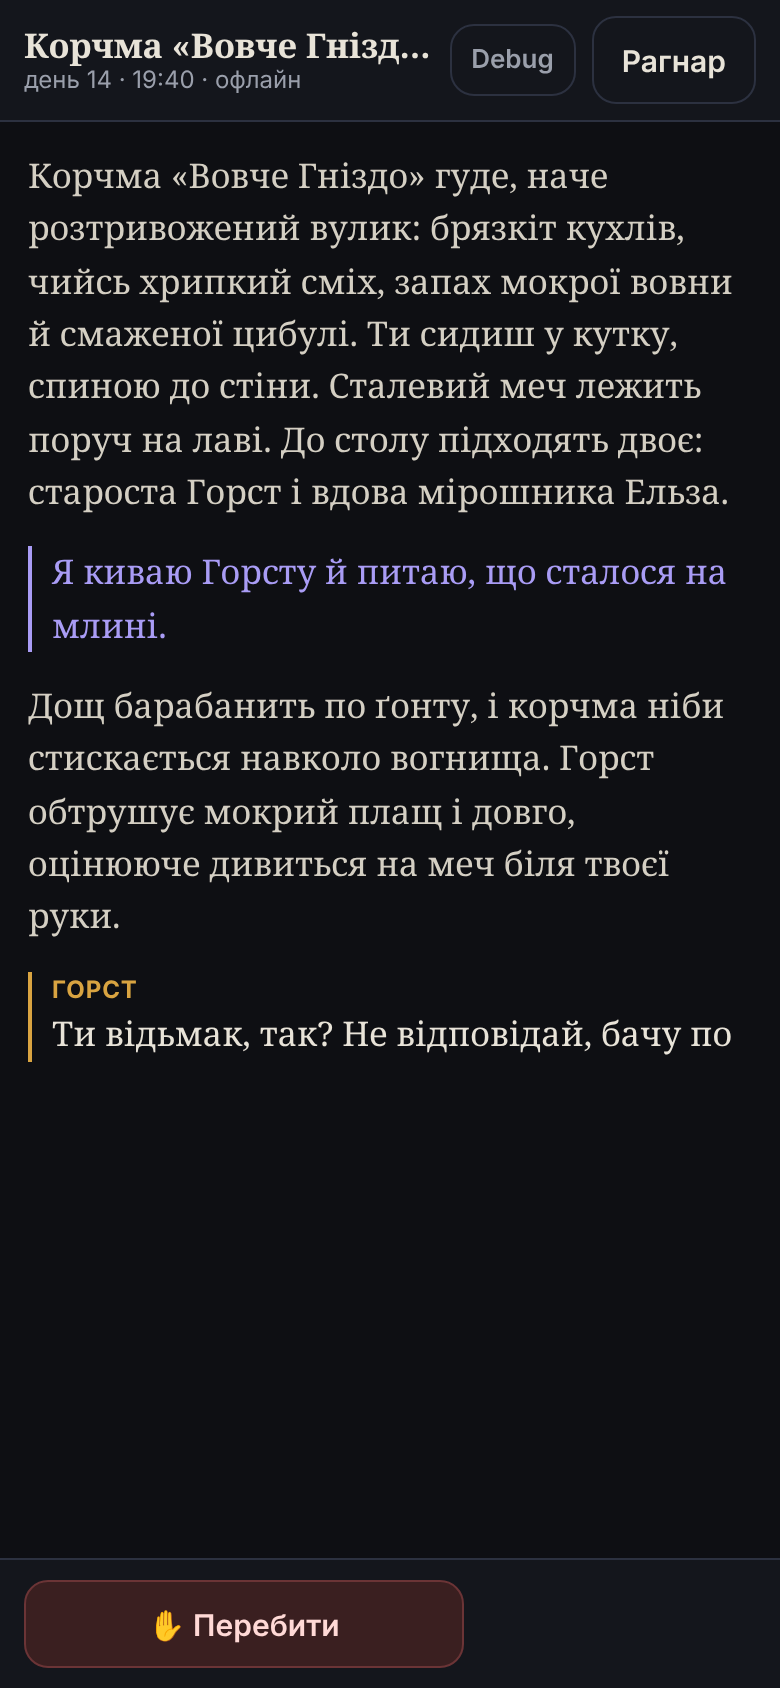
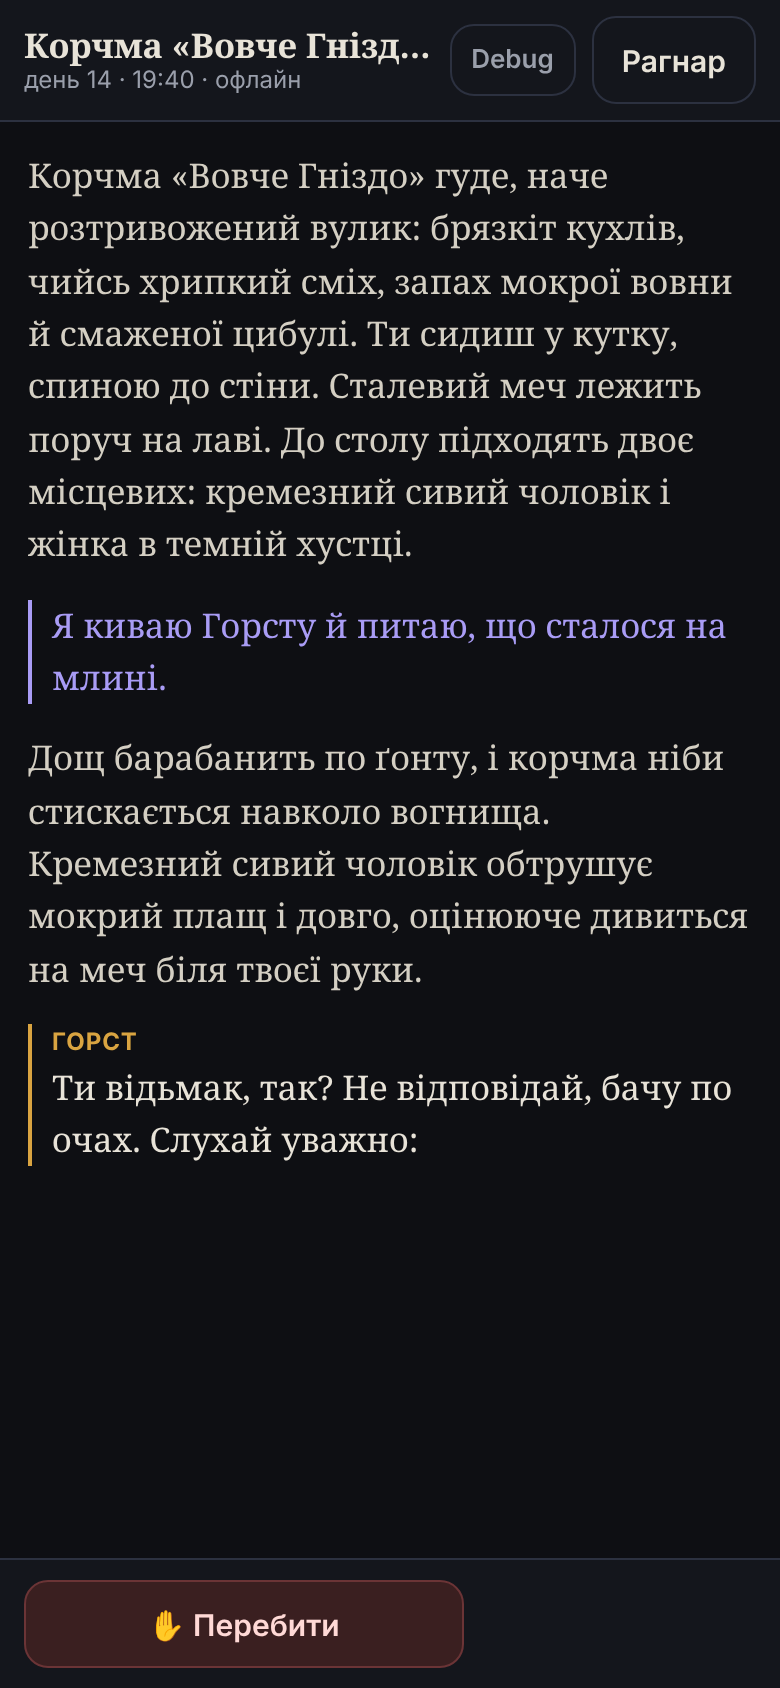
UI: how does he know that (tap, spoiler), who-knows-what debug section; phone check updated

Changed region(s): [[0.0308, 0.2773, 0.9538, 0.6777], [0.8923, 0.5853, 0.9231, 0.6469]]

diff --git a/app/static/app.js b/app/static/app.js
@@ -1,7 +1,7 @@
 "use strict";
 const $ = (id) => document.getElementById(id);
 const feed = $("feed");
-let tag = "", lastSeq = 0, es = null, turnEls = [], cur = null, busy = false;
+let tag = "", lastSeq = 0, es = null, turnEls = [], cur = null, busy = false, turnNpc = [];
 
 function el(tag, cls, text) {
   const e = document.createElement(tag);
@@ -22,12 +22,64 @@ function addWord(block, w) {
   block.appendChild(s);
   if (atBottom) feed.scrollTop = feed.scrollHeight;
 }
-function npcBlock(who, name, text, cut) {
+function npcBlock(who, name, text, cut, event) {
   const b = el("p", "npc"); b.dataset.who = who;
   b.appendChild(el("span", "who", name));
   if (text) b.appendChild(el("span", "w", text));
   if (cut) b.classList.add("cut");
+  if (event != null) addAsk(b, event);
   return b;
+}
+
+// "Звідки він це знає?": the player marks a line as impossible; the engine checks the channels
+function addAsk(block, event) {
+  block.dataset.event = event;
+  const old = block.querySelector(".ask"); if (old) old.remove();
+  const btn = el("button", "ask", "звідки він це знає?");
+  btn.type = "button";
+  btn.addEventListener("click", () => openAsk(block));
+  block.appendChild(btn);
+}
+function openAsk(block) {
+  if (block.querySelector(".askbox")) return;
+  const box = el("span", "askbox");
+  const note = el("textarea"); note.rows = 2; note.placeholder = "Що саме він не міг знати? (можна лишити порожнім)";
+  const go = el("button", "btn primary", "Перевірити"); go.type = "button";
+  const cancel = el("button", "btn ghost", "Скасувати"); cancel.type = "button";
+  cancel.addEventListener("click", () => box.remove());
+  go.addEventListener("click", async () => {
+    go.disabled = true; go.textContent = "Перевіряю…";
+    let r, d;
+    try {
+      r = await fetch("/api/challenge", { method: "POST", body: JSON.stringify({ event: Number(block.dataset.event), explanation: note.value }) });
+      d = await r.json();
+    } catch (e) { d = { error: "Немає зв'язку." }; r = { ok: false }; }
+    box.remove();
+    showAnswer(block, r.ok, d);
+  });
+  box.append(note, go, cancel);
+  block.appendChild(box);
+  note.focus({ preventScroll: true });
+}
+function showAnswer(block, ok, d) {
+  const prev = block.querySelector(".askres"); if (prev) prev.remove();
+  const res = el("span", "askres");
+  if (!ok) res.textContent = d.error || "Не вдалося перевірити.";
+  else if (d.verdict === "channel") {
+    res.appendChild(document.createTextNode("Може знати: " + d.public + ". "));
+    const spoil = el("button", "linkbtn", "показати (спойлер)"); spoil.type = "button";
+    const detail = el("span", "spoiler", d.detail); detail.hidden = true;
+    spoil.addEventListener("click", () => { detail.hidden = !detail.hidden; });
+    res.append(spoil, detail);
+  } else if (d.verdict === "no_channel") {
+    if (d.regenerated) {
+      const w = block.querySelector(".w"); if (w) w.textContent = d.text;
+      block.classList.remove("cut");
+      block.dataset.event = d.new_event;
+      res.textContent = "Він не міг цього знати: репліку переписано з твоїм поясненням.";
+    } else res.textContent = "Він не міг цього знати. Пояснення збережено для наступних реплік.";
+  } else res.textContent = "Не вдалося перевірити (суддя недоступний).";
+  block.appendChild(res);
 }
 
 function setBusy(on, phase) {
@@ -62,22 +114,23 @@ function render(state) {
     if (t.kind === "intro") add(el("p", "intro", t.text), false);
     else if (t.kind === "player") add(el("p", "me", t.text), false);
     else if (t.kind === "narr") add(el("p", "narr", t.text), false);
-    else add(npcBlock(t.who, t.name, t.text, t.cut), false);
+    else add(npcBlock(t.who, t.name, t.text, t.cut, t.event), false);
   }
   setPanel(state.panel);
   feed.scrollTop = feed.scrollHeight;
 }
 
 const handlers = {
-  turn_start(e) { turnEls = []; cur = null; add(el("p", "me", e.text)); },
+  turn_start(e) { turnEls = []; turnNpc = []; cur = null; add(el("p", "me", e.text)); },
   narr_start() { cur = add(el("p", "narr")); setBusy(true, "narrating"); },
   narr_word(e) { addWord(cur, e.w); },
   narr_end() { setBusy(true, "thinking"); },
-  speaker(e) { cur = add(npcBlock(e.who, e.name, "")); setBusy(true, "speaking"); },
+  speaker(e) { cur = add(npcBlock(e.who, e.name, "")); turnNpc.push(cur); setBusy(true, "speaking"); },
   word(e) { addWord(cur, e.w); },
   turn_done(e) {
     if (e.interrupted && cur && cur.classList.contains("npc")) cur.classList.add("cut");
     $("clock").textContent = e.clock + tag;
+    (e.lines || []).forEach((id, i) => { if (turnNpc[i]) addAsk(turnNpc[i], id); });
     setPanel(e.panel);
     $("input").value = ""; syncSend();
     setBusy(false); showError("");
@@ -193,6 +246,31 @@ async function loadDebug() {
     ["#" + e.id + " " + e.type, JSON.stringify(e.payload).slice(0, 140)])));
   body.appendChild(section("Нотатки рушія", d.notes.map((n) =>
     [n.kind, JSON.stringify(n).slice(0, 160)])));
+  if (d.challenge) body.appendChild(section("Остання перевірка «звідки він це знає»", [
+    [d.challenge.verdict, JSON.stringify(d.challenge).slice(0, 300)]]));
+  await loadKnowledge(body);
+}
+
+// who knows what and from where (per character), so the user can check knowledge directly
+async function loadKnowledge(body) {
+  const r = await fetch("/api/knowledge");
+  if (!r.ok) { body.appendChild(section("Хто що знає", [["", "недоступно під час ходу"]])); return; }
+  const k = await r.json();
+  body.appendChild(el("h4", "", "Хто що знає"));
+  for (const [id, c] of Object.entries(k)) {
+    const det = el("details");
+    det.appendChild(el("summary", "", `${c.name} (${c.label}) · ${c.items.length}`));
+    const t = el("table");
+    for (const i of c.items) {
+      const tr = el("tr");
+      tr.appendChild(el("td", "dim", i.kind));
+      tr.appendChild(el("td", "", i.text));
+      tr.appendChild(el("td", "dim", [i.how, i.source_name ? "від " + i.source_name : "", i.when_text || "", i.event != null ? "#" + i.event : ""].filter(Boolean).join(" · ")));
+      t.appendChild(tr);
+    }
+    det.appendChild(t);
+    body.appendChild(det);
+  }
 }
 
 // the world pauses while the app is in the background; the server holds the stream

diff --git a/app/static/style.css b/app/static/style.css
@@ -70,3 +70,15 @@ button { cursor: pointer; }
 .chip .dot { margin: 0; flex: none; }
 .chip small { display: inline; font-size: 11px; }
 #prose { font-family: var(--serif); line-height: 1.55; color: #d4cfc3; }
+
+/* "how does he know that?" */
+.npc .ask, .linkbtn { display: inline-block; margin: 4px 0 0 0; padding: 4px 0; min-height: 32px; background: none; border: 0; color: var(--muted); font: 12px var(--sans); text-decoration: underline; text-underline-offset: 3px; }
+.npc .ask { display: block; opacity: .75; }
+.linkbtn { display: inline; padding: 0; color: var(--teal); }
+.askbox { display: flex; flex-wrap: wrap; gap: 8px; margin-top: 6px; font-family: var(--sans); }
+.askbox textarea { flex: 1 1 100%; resize: none; background: var(--panel); border: 1px solid var(--line); border-radius: 10px; padding: 8px 10px; font-size: 14px; }
+.askbox .btn { min-height: var(--tap); font-size: 14px; }
+.askres { display: block; margin-top: 6px; font: 13px/1.45 var(--sans); color: var(--muted); }
+.spoiler { display: block; margin-top: 4px; padding: 6px 8px; border-radius: 8px; background: var(--panel); color: var(--text); font-size: 12.5px; }
+#debugPanel details { margin: 4px 0; }
+#debugPanel summary { cursor: pointer; color: var(--text); }

diff --git a/app/tests/ui_check.py b/app/tests/ui_check.py
@@ -79,6 +79,20 @@ def main() -> None:
         no_hscroll(page, "after turn 1")
         shot(page, "04-turn1-done")
 
+        # "how does he know that?": the offline judge finds a channel; the spoiler is a tap away
+        page.click(".npc[data-who=horst] .ask")
+        page.fill(".askbox textarea", "Звідки він знає про хлопців?")
+        shot(page, "04b-ask")
+        page.click(".askbox .btn.primary")
+        page.wait_for_selector(".npc[data-who=horst] .askres")
+        res = page.inner_text(".npc[data-who=horst] .askres")
+        assert res.startswith("Може знати:"), res
+        assert not page.is_visible(".npc[data-who=horst] .spoiler")
+        page.click(".npc[data-who=horst] .linkbtn")
+        assert page.is_visible(".npc[data-who=horst] .spoiler")
+        no_hscroll(page, "after the answer")
+        shot(page, "04c-channel-answer")
+
         # turn 2: interrupt the NPC mid-line
         page.fill("#input", "Мовчки дивлюсь на Ельзу.")
         page.click("#btnSend")
@@ -105,6 +119,10 @@ def main() -> None:
         text = page.inner_text("#debugBody")
         for needle in ("до першого слова", "Виклики моделей", "Судження", "Журнал подій", "narrator"):
             assert needle in text, needle
+        page.wait_for_selector("#debugBody details")
+        assert "Хто що знає" in page.inner_text("#debugBody")
+        page.click("#debugBody summary:has-text(\"Горст\")")
+        assert "acquainted" in page.inner_text("#debugBody")
         shot(page, "07-debug")
         page.click("#btnDebug")
 

diff --git a/tests/test_challenge.py b/tests/test_challenge.py
@@ -72,7 +72,7 @@ def test_a_channel_is_reported_with_type_and_rough_time_and_changes_nothing():
     eng.scene.time += 2 * 1440 + 30
     out = eng.challenge_line(line.id, "звідки вона знає про млин")
     assert out.verdict == "channel" and not out.regenerated
-    assert out.public == "це загальновідоме в цих краях 2 дні тому"
+    assert out.public == "це загальновідоме в цих краях"
     assert "The mill by the dam is old." in out.detail, "the full event is in the spoiler"
     assert "The mill" not in out.public, "the content never appears in the public text"
     assert eng.log.is_active(line.id) and eng.log.active([CORRECTION]) == []

diff --git a/harness/knowledge.py b/harness/knowledge.py
@@ -50,8 +50,9 @@ def items_for(eng: "Engine", character: str, before: int | None = None) -> list[
         f, k = it.fact, it.knower
         if before is not None and k.event_id is not None and k.event_id >= before:
             continue
-        add(FACT, f.content, k.how, k.source, k.learned_at, k.event_id, f.id,
-            canon=f.store == "canon")
+        canon = f.store == "canon"  # pre-campaign knowledge has no meaningful "when"
+        add(FACT, f.content, k.how, k.source, None if canon else k.learned_at, k.event_id, f.id,
+            canon=canon)
     for subj, ev in eng.names.known_map(character, before).items():
         if subj == character:
             continue
